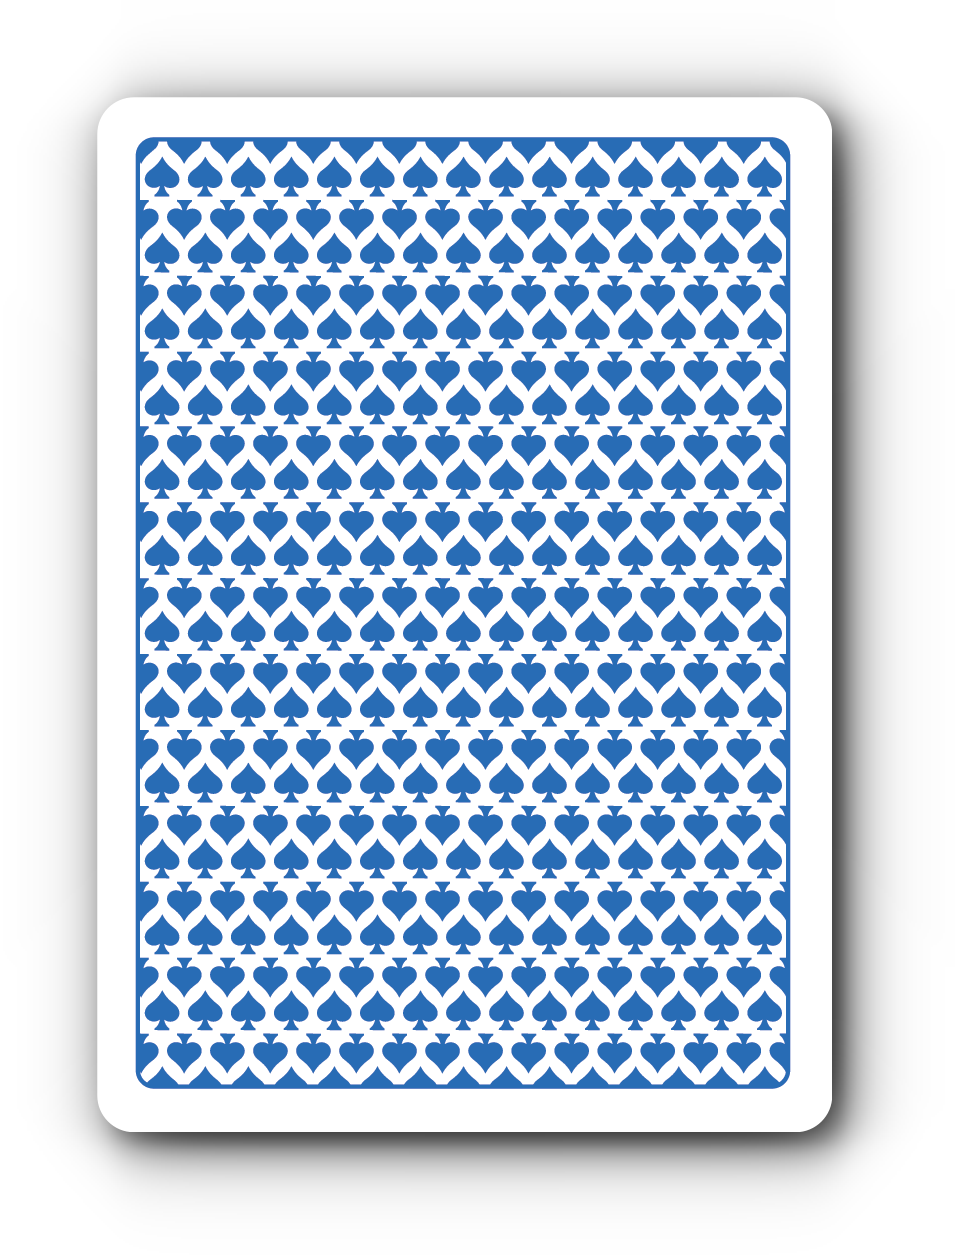
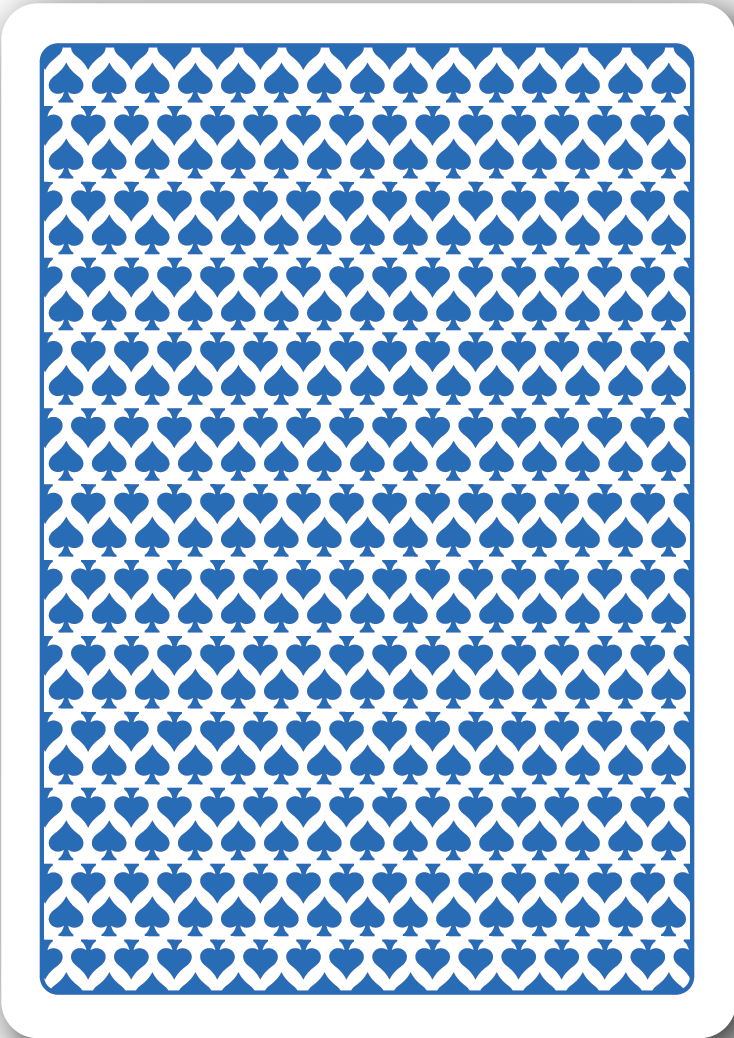
Endaufgabe hochladen

diff --git a/Endaufgabe/js/script.ts b/Endaufgabe/js/script.ts
@@ -30,7 +30,7 @@ interface Card {
 
 
 //Funktionen
-function generateCards () { //Karten werden zu Beginn generiert und ins Deck getan
+function generateCards () { //Karten werden zu Beginn generiert und ins Deck gepushed
 
     let r1: Card = {
         cardColor : "rot",             
@@ -340,16 +340,16 @@ function computerPlay(){
 } 
 
 function playCard (clickedCard: number) {
-    if (Player[clickedCard].cardColor==Ablage[Ablage.length -1].cardColor||             //Checkt ob Karte laut Spielregeln legbar ist (entweder gleiche Farbe oder gleiche Zahl)
+    if (Player[clickedCard].cardColor==Ablage[Ablage.length -1].cardColor||             //guckt ob die Karte die vom Spieler geclickt wurde die gleiche Farbe oder gleiche Nummer wie Karte auf der Ablage hat. Wenn ja wird sie gespielt.
         Player[clickedCard].cardNumber==Ablage[Ablage.length -1].cardNumber){
 
     Ablage.push(Player[clickedCard]);
     Player.splice(clickedCard, 1);
     buildHTML();
-    if (Player.length==0){
+    if (Player.length==0){                              // Falls der Array der Spielerkarten gleich 0 ist hat er gewonnen und diese Benachrichtigung erscheint          
         alert("Congratulations! You won.");                          
     }
-    if (Computer.length==0){
+    if (Computer.length==0){                            // Falls der Array der Computerkarten gleich 0 ist der verloren und diese Benachrichtigung erscheint
         alert("Congratulations! You lost.");
     }
     computerPlay();

diff --git a/Endaufgabe/css/61-style.css b/Endaufgabe/css/61-style.css
@@ -1,12 +1,15 @@
 header {
-    background-color: gray;
+    background-color: rgb(145, 145, 145);
     text-align: center;
+    font-family: 'Ubuntu',sans-serif;
+    border-radius: 50%;
 }
 
 body {
 	background-image: url("https://fullyloaded.pizza/wp-content/uploads/2016/08/2brown-wood-texture-and-background-1170x780.jpg");
 	width: 99%
 }
+
 
 #Ablage {
     width: 183px;
@@ -16,7 +19,7 @@ body {
     margin-right: 15%;
 }
 
-#Deck {
+#Deck {                         
     width: 183px;
     height: 33%;
 	float: left;
@@ -26,9 +29,11 @@ body {
 
 #Computer{
     width: 100%;
-    height: 30%;
-    border-radius: 5%;
+    height: 28%;
+    border-radius: 2%;
+    margin-top: 1px;
     margin-bottom: 2%;
+    box-shadow: 0 10px 50px black;
     
 }
 
@@ -37,6 +42,8 @@ body {
     height: 28%;
     float: left  ;
     margin-top: 2%;
+    box-shadow: 0 10px 50px black;
+    border-radius: 2%;
 }
 
 
@@ -46,7 +53,7 @@ body {
 img {
 	width: 183px;
 	height: 263px;
-    border-radius: 10%;
+    border-radius: 8%;
     box-shadow: 0 3px 10px black;
     height: 90%;
     image-orientation: from-image;

diff --git a/Steckbrief/steckbrief.htm b/Steckbrief/steckbrief.htm
@@ -2,6 +2,7 @@
 <!-- Bitte keine Änderung in der obenstehenden Zeile vornehmen -->
 
 <!-- Hier die Links zu den gelösten Aufgaben einstellen, aktuelle oben, alte stehen lassen! Format: Aufgabenbezeichnung, Datum -->
+<a href="../Endaufgabe/Endaufgabe.html" target="blank">Äntaufjabe 28.07.19</a></br>
 <a href="../Aufgabe 10/Aufgabe 10.html" target="blank">Aufgabe 10 24.06.19</a></br>
 <a href="../Aufgabe 10/imgs/Aufgabe 10 Konzept.jpg" target="blank">Aufgabe 10 Cönzepter</a></br>
 <a href="../Aufgabe 9/Aufgabe 9.html" target="blank">Aufgabe 9 16.06.19</a></br>
